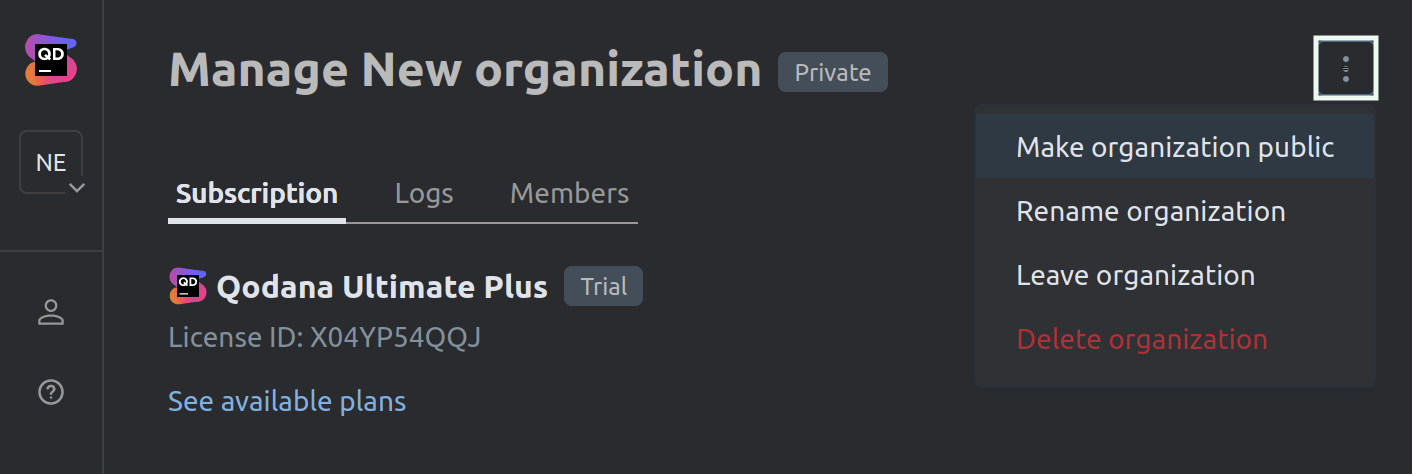
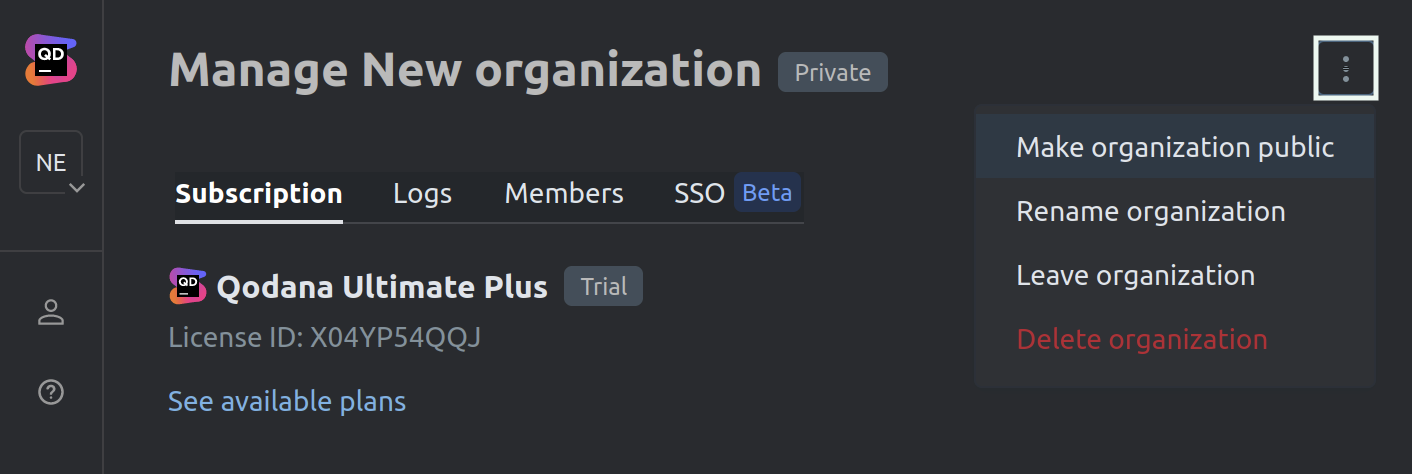
QD-11372 Create the SSO section

Changed region(s): [[0.1246, 0.3537, 0.5916, 0.4716]]

diff --git a/topics/cloud-sso.md b/topics/cloud-sso.md
@@ -1,0 +1,74 @@
+# Single Sign-on
+
+<show-structure for="chapter" depth="3"/>
+
+<link-summary>Single Sign-On (SSO) functionality of Qodana Cloud lets you use third-party authentication providers for 
+authentication in Qodana Cloud.</link-summary>
+
+<var name="hub-link" value="https://www.jetbrains.com/help/hub/introduction-to-hub.html"/>
+<var name="hub-user-acc" value="https://www.jetbrains.com/help/hub/creating-user-accounts.html#CreatingNewAccount"/>
+<var name="hub-user-invite" value="https://www.jetbrains.com/help/hub/creating-user-accounts.html#InvitingNewUsers"/>
+<var name="hub-access-management" value="https://www.jetbrains.com/help/hub/access-management.html"/>
+<var name="hub-user-roles" value="https://www.jetbrains.com/help/hub/configuring-access-for-a-user-account.html#GrantingAccessToAccount"/>
+<var name="hub-auth-modules" value="https://www.jetbrains.com/help/hub/managing-auth-modules.html"/>
+
+Single Sign-On (SSO) functionality of Qodana Cloud lets you use third-party authentication providers for authentication in Qodana Cloud.
+This functionality is available only %product% Ultimate or Ultimate Plus [licenses](pricing.md) purchased for at least ten users.
+
+This section explains how you can manage users and authentication modules for authentication in Qodana Cloud and guides 
+you through the SSO configuration process. 
+
+## Configure SSO
+
+### Create a subdomain
+{id="sso-create-a-subdomain"}
+
+Only users with the [Admin](cloud-user-roles.md#cloud-user-org-roles-admin) and
+[Owner](cloud-user-roles.md#cloud-user-org-roles-owner) organization roles can configure the single sign-on functionality
+in Qodana Cloud.
+
+User authentication is carried out using a subdomain of Qodana Cloud, which you can create as explained below.
+
+<procedure>
+    <step>In your Qodana Cloud organization, navigate to the 
+        <a href="cloud-organizations.topic" anchor="cloud-organizations-overview">settings page</a>.</step>
+    <step>
+        <p>On the settings page, click the <ui-path>SSO</ui-path> tab.</p>
+    </step>
+    <step><p>On the <ui-path>SSO</ui-path> tab, enter the name of the subdomain that you would like to use for authentication, and then
+            click the <ui-path>Set up SSO</ui-path> button.</p> 
+        <img src="qc-sso-sso-tab.png" width="706" alt="The SSO tab of the organization settings" border-effect="line"/>
+    </step>
+    <step><p>On the <ui-path>SSO</ui-path> tab, copy and save the generated URL that you will be using for authentication, and then click the <ui-path>Configure SSO</ui-path> link to proceed to the next configuration stage.</p>
+          <img src="qc-sso-configure-sso.png" width="706" alt="The generated URL and the Configure SSO link" border-effect="line"/>
+    </step>
+</procedure>
+
+### Manage users and authentication modules
+{id="sso-manage-users-auth-modules"}
+
+Based on the latest step of [the previous action](#sso-create-a-subdomain), you should be redirected to a 
+[JetBrains Hub](%hub-link%) instance. Using the Hub UI, configure users and authentication modules:
+
+<procedure>
+    <step>Using the <a href="%hub-access-management%"><ui-path>Access Management</ui-path></a> section of the 
+        <ui-path>Administration</ui-path> menu, create <a href="%hub-user-acc%">user accounts</a> or 
+        <a href="%hub-user-invite%">invite users</a>.</step>
+    <step>For each user created in the previous step, <a href="%hub-user-roles%">grant user roles</a>. User accounts 
+            without granted user roles will not be able to use the SSO functionality.</step>
+    <step>Using the <a href="%hub-access-management%"><ui-path>Access Management</ui-path></a> section of the 
+        <ui-path>Administration</ui-path> menu, navigate to the <a href="%hub-auth-modules%"><ui-path>Auth Modules</ui-path></a> page. 
+                On this page, enable the <code>Hub</code> authentication module, and then select and configure the 
+                authentication modules that you would like to use.</step>
+</procedure>
+
+## Authenticate in Qodana Cloud
+
+Once you configured users and authentication modules, you can navigate to Qodana Cloud using the URL that was generated
+during the [subdomain creation](#sso-create-a-subdomain) stage. On the page that opens, click the **Login with SSO** button.
+
+<img src="qc-login-with-sso-start-page.png" width="706" alt="Qodana Cloud start page with SSO" border-effect="line"/>
+
+This will redirect you to the authentication page containing configured providers.
+
+<img src="qc-sso-authentication-page.png" width="706" alt="Qodana Cloud SSO authentication page" border-effect="line"/>

diff --git a/topics/cloud-user-roles.md b/topics/cloud-user-roles.md
@@ -24,7 +24,7 @@ These roles are required for all organization members.
 Here is a detailed description of all team-level roles and their permissions.
 
 <tabs group="cloud-roles">
-    <tab title="Viewer" group-key="viewer">
+    <tab title="Viewer" group-key="viewer" id="cloud-user-team-roles-viewer">
         <p>View teams, projects, reports and users associated with a team. This role is suitable for users outside 
         a team who would like to view reports.</p>
         <table>
@@ -50,7 +50,7 @@ Here is a detailed description of all team-level roles and their permissions.
             </tr>
         </table>
     </tab>
-    <tab title="Editor" group-key="editor">
+    <tab title="Editor" group-key="editor" id="cloud-user-team-roles-editor">
         <p>Manage team projects and project reports, members and tokens.
         This role is suitable for developers, devops and QA specialists.</p>
         <p>Here is the explanation to the permission marking:</p>
@@ -124,7 +124,7 @@ Here is a detailed description of all team-level roles and their permissions.
             </tr>
         </table>
     </tab>
-    <tab title="Admin" group-key="admin">
+    <tab title="Admin" group-key="admin" id="cloud-user-team-roles-admin">
         <p>Manage teams and team members.
         This role is suitable for team managers, team leads, and senior developers.</p>
         <p>Here is the explanation to the permission marking:</p>
@@ -210,7 +210,7 @@ Here is a detailed description of all team-level roles and their permissions.
 ## Organization roles
 {id="organization-roles"}
 
-<link-summary>Team roles are the sets of permissions that can be assigned to users on an organization level.</link-summary>
+<link-summary>Organization roles are the sets of permissions that can be assigned to users on an organization level.</link-summary>
 
 Organization roles are the sets of permissions that can be assigned to users on an
 [organization](cloud-organizations.topic) level. To learn more about how to invite members to a Qodana Cloud organization, see the 
@@ -221,7 +221,7 @@ These roles are required for all organization members.
 Below you can find the detailed description of all organization-level roles and their permissions.
 
 <tabs group="cloud-roles">
-    <tab title="Viewer" group-key="viewer">
+    <tab title="Viewer" group-key="viewer" id="cloud-user-org-roles-viewer">
         <p>
             View organizations, members, teams, and all everything contained in teams like projects, reports and members. 
             This role is suitable for developers, QA specialists, support team members, and product leads.
@@ -249,7 +249,7 @@ Below you can find the detailed description of all organization-level roles and 
             </tr>
         </table>
     </tab>
-    <tab title="Editor" group-key="editor">
+    <tab title="Editor" group-key="editor" id="cloud-user-org-roles-editor">
         <p>
             Manage teams and team members within an organization, and view everything related to an organization. This role is suitable for team-leads and managers.
         </p>
@@ -325,7 +325,7 @@ Below you can find the detailed description of all organization-level roles and 
             </tr>
         </table>
     </tab>
-    <tab title="Admin" group-key="admin">
+    <tab title="Admin" group-key="admin" id="cloud-user-org-roles-admin">
         <p>
             Manage organizations and their users, projects, project tokens and reports. This role is suitable for 
             members of IT departments.
@@ -458,7 +458,7 @@ Below you can find the detailed description of all organization-level roles and 
             </tr>
         </table>
     </tab>
-    <tab title="Owner" group-key="owner">
+    <tab title="Owner" group-key="owner" id="cloud-user-org-roles-owner">
         <p>
             Full control over an organization and its entities including users, teams, projects and project reports. 
             This role is suitable for IT department leads.

diff --git a/topics/pricing.md b/topics/pricing.md
@@ -128,21 +128,22 @@ Here, C and C++ inspections are applicable for projects containing `.sln` files.
 
 <link-summary>You can review the list of features available for each Qodana license.</link-summary>
 
-| Feature                                                | Community | Ultimate  | Ultimate Plus | 
-|--------------------------------------------------------|-----------|-----------|---------------|
-| [Monorepo support](monorepo-project.md)                | &#x2714;  | &#x2714;  | &#x2714;      | 
-| [CI/CD integrations](ci.md)                            | &#x2714;  | &#x2714;  | &#x2714;      |
+| Feature                                                 | Community | Ultimate  | Ultimate Plus | 
+|---------------------------------------------------------|-----------|-----------|---------------|
+| [Monorepo support](monorepo-project.md)                 | &#x2714;  | &#x2714;  | &#x2714;      | 
+| [CI/CD integrations](ci.md)                             | &#x2714;  | &#x2714;  | &#x2714;      |
 | [Custom plugin support](extending-qodana-plugins.topic) | &#x2714;  | &#x2714;  | &#x2714;      |
-| [](baseline.topic)                                     | &#x2714;  | &#x2714;  | &#x2714;      |
-| [](quality-gate.topic)                                 | &#x2714;  | &#x2714;  | &#x2714;      |
-| Docker and Kubernetes support                          | &#x274c;  | &#x2714;  | &#x2714;      |
-| [](code-coverage.md)                                   | &#x274c;  | &#x2714;  | &#x2714;      |
-| [](quick-fix.md)                                       | &#x274c;  | &#x2714;  | &#x2714;      |
-| [](php-language-upgrade.topic)                         | &#x274c;  | &#x2714;  | &#x2714;      |
-| [](flexinspect.md)                                     | &#x274c;  | &#x2714;  | &#x2714;      |
-| [](license-audit.topic)                                | &#x274c;  | &#x274c;  | &#x2714;      |
-| [](taint-analysis.md)                                  | &#x274c;  | &#x274c;  | &#x2714;      |
-| [](vulnerability-checker.md)                           | &#x274c;  | &#x274c;  | &#x2714;      |
+| [](baseline.topic)                                      | &#x2714;  | &#x2714;  | &#x2714;      |
+| [](quality-gate.topic)                                  | &#x2714;  | &#x2714;  | &#x2714;      |
+| Docker and Kubernetes support                           | &#x274c;  | &#x2714;  | &#x2714;      |
+| [](code-coverage.md)                                    | &#x274c;  | &#x2714;  | &#x2714;      |
+| [](quick-fix.md)                                        | &#x274c;  | &#x2714;  | &#x2714;      |
+| [](php-language-upgrade.topic)                          | &#x274c;  | &#x2714;  | &#x2714;      |
+| [](flexinspect.md)                                      | &#x274c;  | &#x2714;  | &#x2714;      |
+| [](cloud-sso.md)                                                | &#x274c;  | &#x2714;  | &#x2714;      |
+| [](license-audit.topic)                                 | &#x274c;  | &#x274c;  | &#x2714;      |
+| [](taint-analysis.md)                                   | &#x274c;  | &#x274c;  | &#x2714;      |
+| [](vulnerability-checker.md)                            | &#x274c;  | &#x274c;  | &#x2714;      |
 
 ### Data storage and processing
 {id="pricing-data-storage"}
